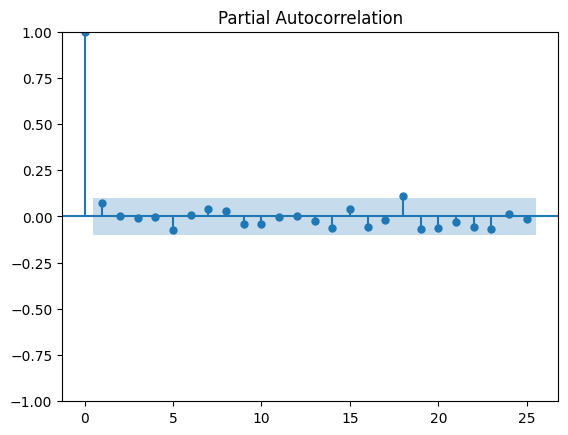
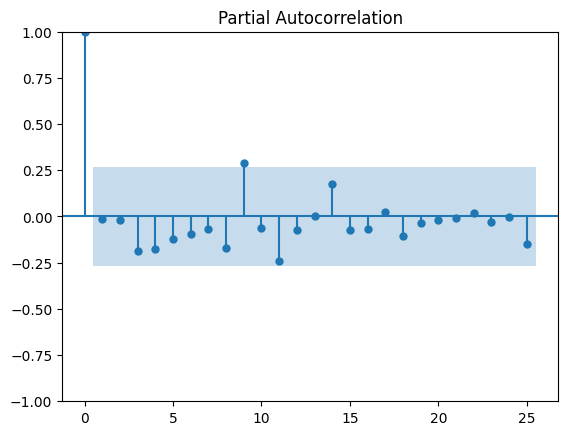
update

Changed region(s): [[0.1496, 0.3586, 0.9577, 0.6276]]

diff --git a/Etude commerciale/src/tools/Modélisation.py b/Etude commerciale/src/tools/Modélisation.py
@@ -1,5 +1,6 @@
 import pandas as pd
 import numpy as np
+import matplotlib.pyplot as plt
 from statsmodels.tsa.stattools import adfuller
 import matplotlib.pyplot as plt
 from statsmodels.graphics.tsaplots import plot_acf, plot_pacf
@@ -80,7 +81,7 @@ def evaluate_seasonal_naive(series, horizon, seasonality_list, n_splits=5, step=
 
     return best_s, best_smape, best_forecast
 
-def seasonal_naive_forecast(series, horizon, seasonality):
+def seasonal_naive_forecast(series, horizon, seasonality, freq='D'):
     """
     Forecast future values using the seasonal naïve method.
 
@@ -99,10 +100,10 @@ def seasonal_naive_forecast(series, horizon, seasonality):
     reps = int(np.ceil(horizon / seasonality))  # combien de fois on doit répéter le dernier cycle
     forecast_values = np.tile(last_season.values, reps)[:horizon]  # découpe pile le bon nombre
 
-    index = pd.date_range(start=series.index[-1] + pd.Timedelta(1, unit="D"), periods=horizon, freq='D')
+    index = pd.date_range(start=series.index[-1] + pd.Timedelta(1, unit=freq), periods=horizon, freq=freq)
     return pd.Series(data=forecast_values, index=index)
 
-def stl_forecast(series, horizon, period):
+def stl_forecast(series, horizon, period, freq='D'):
     stl = STL(series, period=period, robust=True)
     res = stl.fit()
 
@@ -117,11 +118,12 @@ def stl_forecast(series, horizon, period):
     seasonal_forecast = np.tile(last_seasonal.values, reps)[:horizon]
 
     forecast_values = np.array(trend_forecast) + seasonal_forecast
-    index = pd.date_range(start=series.index[-1] + pd.Timedelta(1, unit="D"), periods=horizon, freq=series.index.freq or pd.infer_freq(series.index))
-    
+    start_date = series.index[-1] + pd.to_timedelta(1, unit=freq)
+    index = pd.date_range(start=start_date, periods=horizon, freq=freq)
+
     return pd.Series(forecast_values, index=index)
 
-def evaluate_stl_forecast(series, horizon, seasonality_list, n_splits=5, step=1):
+def evaluate_stl_forecast(series, horizon, seasonality_list, n_splits=5, step=1, freq='D'):
     results = defaultdict(list)
     forecast_overlay = defaultdict(list)
 
@@ -139,7 +141,7 @@ def evaluate_stl_forecast(series, horizon, seasonality_list, n_splits=5, step=1)
             if len(train) < s:
                 continue
             try:
-                forecast = stl_forecast(train, horizon, period=s)
+                forecast = stl_forecast(train, horizon, period=s, freq=freq)
                 score = pm.metrics.smape(test.values, forecast.values)
                 results[s].append(score)
                 forecast_overlay[s].append(forecast)
@@ -150,37 +152,16 @@ def evaluate_stl_forecast(series, horizon, seasonality_list, n_splits=5, step=1)
     avg_smape = {s: np.mean(scores) for s, scores in results.items() if scores}
     sorted_results = sorted(avg_smape.items(), key=lambda x: x[1])
 
-    best_s, best_smape = sorted_results[0]
+    if not sorted_results:
+        raise ValueError("Aucune saisonnalité n'a produit de résultats valides. Vérifie les paramètres.")
+    else:
+        best_s, best_smape = sorted_results[0]
+
     best_forecasts = forecast_overlay[best_s]
 
     print(f"✅ Meilleure saisonnalité STL : {best_s} — SMAPE moyenne = {best_smape:.2f}% sur {n_splits} splits")
 
     return best_s, best_smape, best_forecasts[-1]
-
-import matplotlib.pyplot as plt
-
-def plot_seasonal_naive(series, forecast):
-    plt.figure(figsize=(12, 5))
-
-    # Tracer la série réelle
-    plt.plot(series.index, series.values, label='Série réelle', color='blue')
-
-    # Tracer la prévision
-    plt.plot(forecast.index, forecast.values, label='Prévision (saisonnier naïf)',
-             color='orange', linestyle='--')
-
-    # Ligne verticale au début de la prévision
-    plt.axvline(x=series.index[-1], color='gray', linestyle=':')
-
-    # Mise en forme
-    plt.title("Prévision saisonnière naïve")
-    plt.xlabel("Date")
-    plt.ylabel("Valeur")
-    plt.legend(loc='upper left')
-    plt.grid(False)
-    plt.tight_layout()
-    plt.show()
-
 
 def stl_forecast_naive(ts, period, horizon):
     """
@@ -213,20 +194,33 @@ def stl_forecast_naive(ts, period, horizon):
 # Importation et traitement
 df = pd.read_csv(r"C:\Projets_personnels\Etude commerciale\src\data\Ventes.csv", sep=';')
 df = df[['Date','Total_Amount']]
-
-# Grouper par la somme les ventes par date
 df.loc[:,'Date'] = pd.to_datetime(df['Date'], format='%d/%m/%Y')
-df = df.groupby(['Date']).sum().reset_index()
-df.set_index('Date', inplace=True)
+df = df.groupby(['Date']).sum()
 
-# Interpolation
-new_dates = pd.date_range(start="2023-01-01", end="2023-12-31", freq='D')
-df = df.reindex(new_dates)
-df = df.interpolate(method='quadratic', limit_direction='both')
-df = abs(round(df,0))
+# Paramètres
+freq = 'W'
+interpolation = True
+operation = 'sum'
 
-# Test de stationnarité
-DickeyFuller(df, 'Total_Amount', 0.05, show_graph=False) # Stationnaire
+# Interpolation éventuelle
+if interpolation:
+    full_range = pd.date_range(start="2023-01-01", end="2023-12-31", freq='D')
+    df = df.reindex(full_range)
+    df = df.interpolate(method='quadratic', limit_direction='both')
+    df = df.round(0).abs()
+
+# Résampling
+if freq == 'W':
+    if operation == 'sum':
+        df = df.resample(freq).sum()
+    elif operation == 'mean':
+        df = df.resample(freq).mean()
+    else:
+        raise ValueError("operation doit être 'sum' ou 'mean'")
+    df = df.round(2).abs().astype(float)
+
+# # Test de stationnarité
+DickeyFuller(df, 'Total_Amount', 0.05, show_graph=True) # Stationnaire
 
 # ACF et PACF
 plot_acf(df, lags=25)
@@ -235,13 +229,13 @@ plot_pacf(df, lags=25)
 ts = df.iloc[:, 0]
 
 # Tester différentes saisonnalités
-max_period = 50  # Période max à tester, ici de 1 à 12 mois
+max_period = 20
 
 # Dictionnaire pour stocker les résultats
 results = []
 
 # Comparer les modèles pour chaque saisonnalité
-for period in range(2, max_period + 1):
+for period in range(3, max_period + 1):
     # Modèle additif
     decomposition_additive = seasonal_decompose(ts, model='additive', period=period)
     trend_additive = decomposition_additive.trend
@@ -279,13 +273,12 @@ for period in range(2, max_period + 1):
 results_df = pd.DataFrame(results)
 results_df = results_df.sort_values(by='SMAPE Additive')
 
-
 # Affichage des résultats
 print(results_df)
 
 # Identifier la meilleure combinaison (minimum de SMAPE)
 best_result = results_df.loc[results_df['SMAPE Additive'].idxmin()]
-print(f"Meilleur modèle : {best_result['Best Model']} avec une saisonnalité de {best_result['Period']} mois")
+print(f"Meilleur modèle : {best_result['Best Model']} avec une saisonnalité de {best_result['Period']} lags")
 
 # Tracer les prédictions avec la meilleure saisonnalité et modèle sans les résidus
 best_period = best_result['Period']
@@ -298,33 +291,45 @@ else:
 
 plt.figure(figsize=(12, 6))
 plt.plot(ts, label='Série réelle', color='blue')
-plt.plot(predicted_best, label=f'Prédiction {best_result["Best Model"]}', color='orange')
+plt.plot(predicted_best, label=f'Prédiction {best_result["Best Model"]}', color='red')
 plt.title(f"Prédictions avec le meilleur modèle ({best_result['Best Model']}) et saisonnalité {best_period}")
 plt.legend()
 plt.show()
 
 # Choisir la meilleure saisonnalité qui minimise l'erreur pour le modèle sausonnier naïf
-best_s, best_score, best_forecast = evaluate_seasonal_naive(df.iloc[:, 0], horizon=12, seasonality_list=np.arange(1, 100), n_splits=5)
+best_s, best_score, best_forecast = evaluate_seasonal_naive(df.iloc[:, 0], horizon=12, seasonality_list=np.arange(1, 25), n_splits=5)
 
 # Prévision sur 12 mois
-forecast = seasonal_naive_forecast(df.iloc[:, 0], horizon=62, seasonality=best_s)
-print(forecast)
+forecast = seasonal_naive_forecast(df.iloc[:, 0], horizon=best_s*3, seasonality=best_s, freq='W')
+# print(forecast)
 
-# Visualisation   
-plot_seasonal_naive(df.iloc[:, 0], forecast)
+# Visualisation
+plt.figure(figsize=(12, 5))
+plt.plot(ts.index, ts.values, label='Valeurs observées', color='blue')
+plt.plot(forecast.index, forecast.values, label='Prévisions', color='red', linestyle='--')
+plt.axvline(x=ts.index[-1], color='gray', linestyle=':', label="Début des prévisions")
+plt.xlabel("Date")
+plt.ylabel("Chiffre d'affaires")
+plt.legend(loc='best')
+plt.title("Prévisions du modèle saisonnier naïf")
+plt.grid(False)
+plt.tight_layout()
+plt.show()
 
 # Déterminer le cyle siaosnnier pour STL
-best_s, best_smape, best_forecasts = evaluate_stl_forecast(ts, 30, np.arange(2, 50), n_splits=5, step=1)
+best_s, best_smape, best_forecasts = evaluate_stl_forecast(ts, 12, np.arange(2, 20), n_splits=5, step=1, freq=freq)
 
 # Prévision STL avec extrapolation naïve du trend et de la saisonnalité   
-forecast_result = stl_forecast_naive(ts, period=best_s, horizon=30)
+forecast_result = stl_forecast_naive(ts, period=best_s, horizon=best_s*3)
 
 # Visualisation
 plt.figure(figsize=(12, 5))
 plt.plot(ts, label='Valeurs observées', color='blue')
-plt.plot(forecast_result.index, forecast_result, label='Prévision STL', color='red', linestyle='--')
-plt.axvline(ts.index[-1], color='gray', linestyle=':', label="Début de prévision")
-plt.legend()
-plt.title('Prévision STL avec extrapolation de tendance et saisonnalité')
+plt.plot(forecast_result.index, forecast_result, label='Prévisions', color='red', linestyle='--')
+plt.axvline(ts.index[-1], color='gray', linestyle=':', label="Début des prévisions")
+plt.ylabel("Chiffre d'affaires")
+plt.legend(loc='best')
+plt.title('Prévisiond du modèle STL avec extrapolation de tendance et saisonnalité')
+plt.grid(False)
 plt.tight_layout()
 plt.show()

diff --git a/Etude commerciale/README.md b/Etude commerciale/README.md
@@ -19,7 +19,7 @@ Les conditions préalables pour exploiter efficacement ce projet varient selon l
    
 ## Structure du dépôt 
 
-- __docs__ : Le support business de présentation et les graphiques montrant les résultats de la modélisation     
+- __docs__ : Le support business de présentation, les graphiques montrant les résultats de la modélisation et le fichier Excel pour le recensement/analyse des expérimentations.
 - __src__     
     - **`\data`** : Dossier où on retrouve le fichier .csv étant la base de données utilisées.      
     - **`\tools`** : Tous les codes Python et R dont un script Python dédié aux fonctions utilisées par les autres scripts       
@@ -49,15 +49,7 @@ requirements_R.R
 
 Le script **`Analyse_factorielle.R`** effectue une Analyse Factorielle de Données Mixtes (AFDM) pour analyser s'il existe des tendances dans le comportement des clients.
 Le script **`Analyse_statistique.py`** est utilisé pour confirmer ou réfuter les hypothèses avancées avec les résultats de l'AFDM avec l'aide d'une série de tests statistiques.
-Le script **`Prévisions_chiffre_affaires.py`** fournit les codes pour la modélisation et la prévision du chiffre d'affaires.
-Le script **`Fonction.py`** répertorie toutes les fonctions Python qui servent à l'exécution des deux autres scripts Python.
-
-Avant d'utiliser les scripts Python, veuillez d'abord exécuter le script des fonctions :
-
-**Exécutez le script:** 
-```bash
-python Fonctions.py  
-```
+Le script **`Modélisation.py`** fournit les codes pour la modélisation et la prévision du chiffre d'affaires.
 
 ## Description de la base
 
@@ -105,8 +97,12 @@ En revanche, une composante saisonnière, bien que peu marquée, semble présent
 
 Ces modèles, bien que rudimentaires, ont l’avantage d’être transparents, robustes et utilisables même en l’absence de dépendances temporelles classiques. Une validation croisée temporelle a permis d’estimer la durée optimale du cycle saisonnier :
 
-Modèle saisonnier naïf : cycle de 24 jours, erreur de prévision (SMAPE) = 56,27 %.
+Modèle saisonnier naïf : cycle de 14 semaines, erreur de prévision (SMAPE) = 29,12 %.
 
-Modèle STL : cycle de 31 jours, erreur de prévision (SMAPE) = 74,45 %.
+Modèle STL : cycle de 14 semaines, erreur de prévision (SMAPE) = 29,41 %.
 
-Conclusion : malgré une erreur de prévision élevée, le modèle saisonnier naïf reste la meilleure option dans ce contexte, faute de structure temporelle exploitable. Il devra néanmoins être utilisé avec prudence, et ses résultats interprétés comme des ordres de grandeur plutôt que des estimations précises.
+Pour arriver à cette erreur, il a été nécessaire :
+- d'interpolé quadratiquement les jours absents,
+- de regrouper les données hebdomadairement en moyennant les chiffres d'affaires quotidiens.
+
+Conclusion : les meilleurs modèles de chaque type (naïf et STL) donnent un même cycle et une erreur d eprévision similaire (environ 29%), ce qui est très bon compte tenu de l'absence de structure temporelle claire et de la naïveté des modèles. Ainsi des prévisions du chiffre d'affaires moyen par semaine peuvent être générées sur le long terme.
